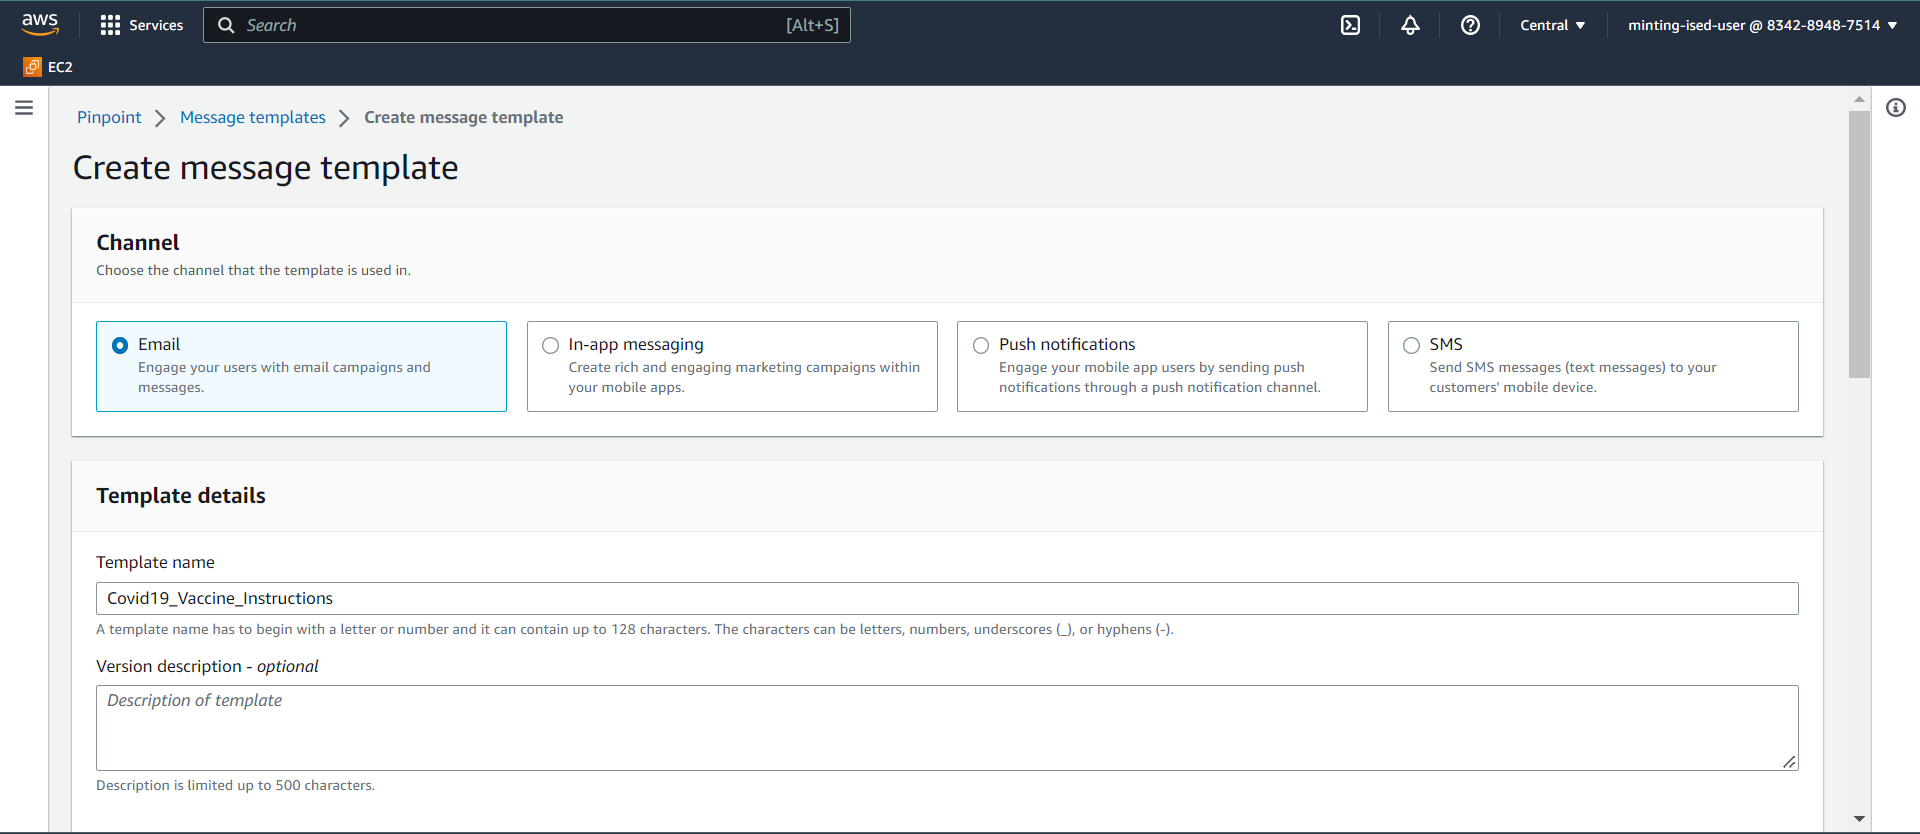
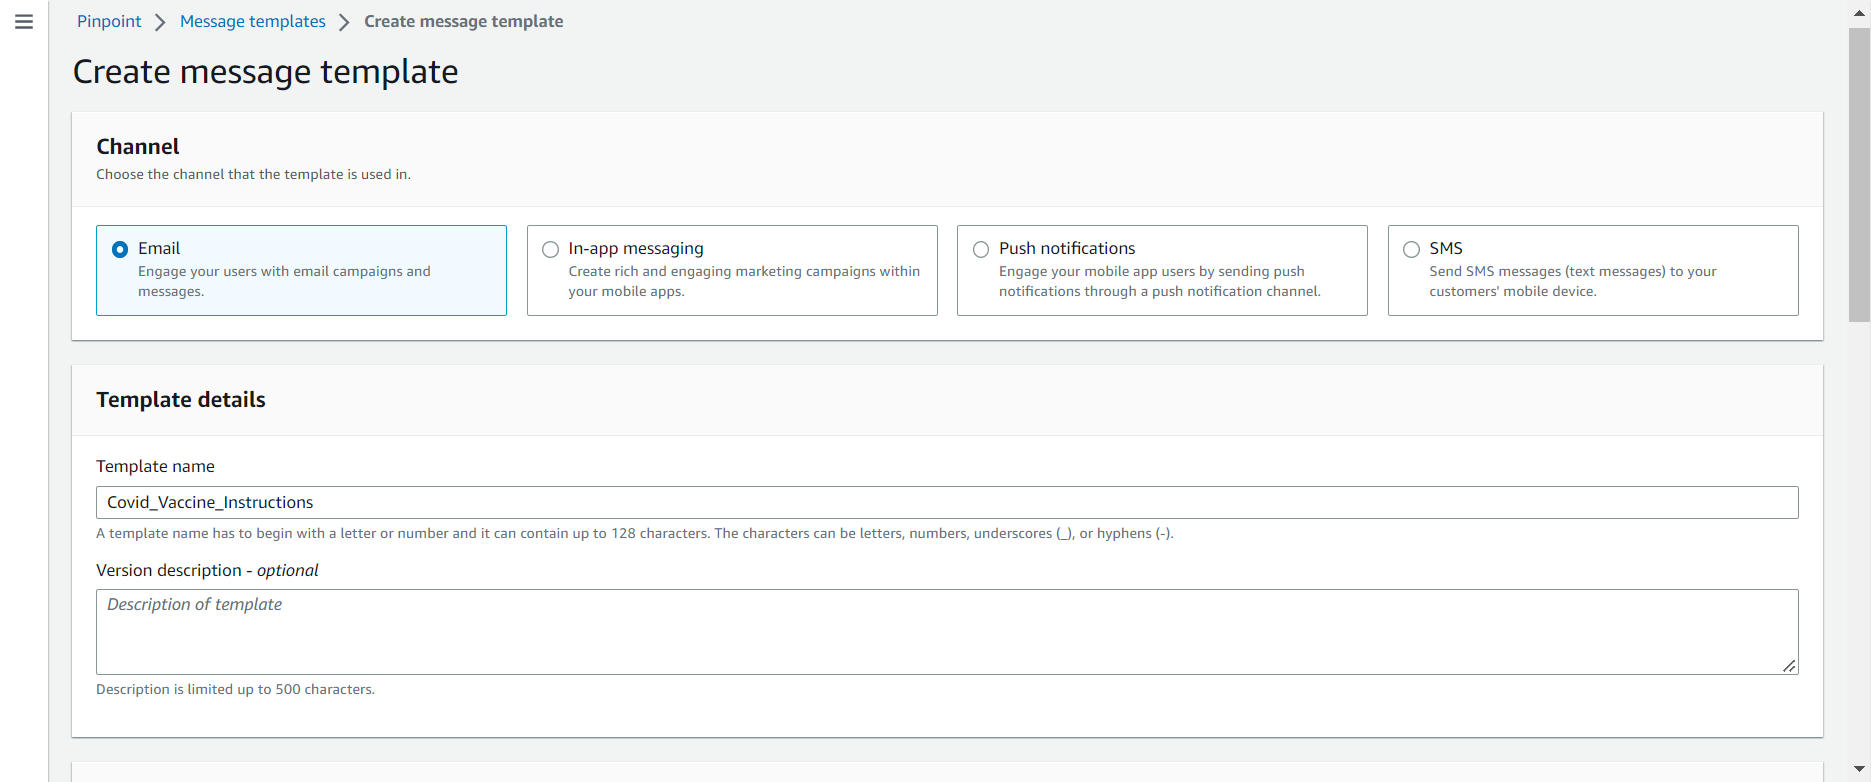
finish pinpoint guide

diff --git a/docs/PinpointGuide.md b/docs/PinpointGuide.md
@@ -1,12 +1,21 @@
-In this guide, you will learn how to send notifications to users who are subscribed to certain topics under certain category. In this example, we email an article "Covid's Impact on BC hospitals" to BC users that are subscribed to either topic COVID-19 or topic Hospitals under the category of Healthcare. 
+# Pinpoint Guide
 
-1. At the [AWS online console](https://console.aws.amazon.com/console/home), enter `Pinpoint` in the search bar![alt text](images/pinpoint_guide/search_pinpoint.PNG)
-2. Double-click PinpointApp.
-3. We are now at the Pinpoint dashboard. We begin by adding the email content to Pinpoint. On the left menu, go to Message templates. A message template in Pinpoint is mesage content that you can reuse when you send messages. [alt text](message_templates.PNG)
-4. Click Create template. [alt text](message_template_1.PNG)
-5. For Channel, choose Email. Fill in the rest of the details and edit your email body under "Email details". After you are done, click "Create".
-6. Next, we configure the details for sending the email. For this we use the Campaigns feature, which can be found at the left menu. Click "Campaigns" and then "Create a campaign". Creating a campaign in Pinpoint initiates a message-sending schedule that targets a specific user group. This sentence will make more sense after you complete the steps to create a campaign.
-7. Fill in the details as the following. For Channel, choose Email. Click Next.
-8. Select "Create a segment". A segment in Pinpoint is a user group with specific attributes values. Scroll down to "Criteria-optional". Click "Add criteria" and configure the filters as below. In the first filter we set the attribute "province" to BC, meaning we only want to include BC users. Click "Add another segment group", then "Add criteria" and configure the filters as below. In the first filter we set the attribute "HC-COVID19" to include EMAIL, meaning we want to target users that are subscribed to the COVID19 topic under HC(short for Healthcare, this is the acronym you entered when creating the category Healthcare in the web app), that is opted in for email communications. Likewise, we set the attribute "HC-Hospitals" to include EMAIL. Then, we connect these two filters using OR, meaning we want to target users that are subscribed to either the COVID19 or Hospital topic.
-9. After you've configured the filters, underneath there is a section titled "Segment estimate" where you can see how many users are selected after you specified the filters. Click Next
-10. 
+**Before Continuing with this User Guide, please make sure you have deployed the frontend and backend stacks.**
+
+- [Deployment Guides](./DeploymentGuide.md)
+
+In this guide, you will learn how to send notifications to users who are subscribed to certain topics under certain category. In this example, we email an article titled "Covid Vaccine Instructions" to all BC users that are subscribed to the topic COVID-19 under the category Healthcare. 
+
+1. At the [AWS online console](https://console.aws.amazon.com/console/home), enter `Pinpoint` in the search bar, and go to "Amazon Pinpoint".![alt text](images/pinpoint_guide/search_pinpoint.PNG)
+2. Click PinpointApp under "All Projects".
+3. We are now at the Pinpoint dashboard. We begin by adding the email content to Pinpoint. On the left menu, go to Message templates. A message template in Pinpoint is mesage content that you can reuse when you send messages. ![alt text](images/pinpoint_guide/message_templates.PNG)
+4. Click Create template. 
+5. For Channel, choose Email. Fill in the rest of the details and edit your email body under "Email details". After you are done, scroll down to the very bottom and click "Create". ![alt text](images/pinpoint_guide/message_template_1.PNG) ![alt text](images/pinpoint_guide/message_template_2.PNG)
+6. Next, we configure the details for sending the email. For this we use the Campaigns feature, which can be found at the left menu. Click "Campaigns" and then "Create a campaign". Creating a campaign in Pinpoint initiates a message-sending schedule that targets a specific user group. This sentence will make more sense after you complete the steps below to create a campaign.![alt text](images/pinpoint_guide/campaigns.PNG)
+7. Fill in the details as the following. For Channel, choose Email. Click Next. ![alt text](images/pinpoint_guide/campaign_1.PNG)
+8. In the "Choose a segment" step, select "Create a segment". A segment in Pinpoint is a user group with specific attributes values. Scroll down to "Criteria-optional". Click "Add criteria" and configure the filters as below. In the first filter we set the attribute "HC-COVID19" to contains EMAIL, meaning we want to target users that are subscribed to the COVID19 topic under HC (short for Healthcare, this is the acronym you entered when creating the category Healthcare in the web app), that is opted in for email communications. In the second filter we set the attribute "province" to BC, meaning we only want to include BC users. After you've configured the filters, underneath there is a section titled "Segment estimate" where you can see how many users are selected after you specified the filters. Click Next ![alt text](images/pinpoint_guide/make_segment_group.PNG)
+9. In the "Create your message" step, select "Choose an existing email template", then set the template you created in step 5. ![alt text](images/pinpoint_guide/create_message.PNG)
+10. Leave the rest as is, then click Next.
+11. In this page, you can set the schedule by which you want your email to be delivered. Choose according to your needs and click Next. ![alt text](images/pinpoint_guide/campaign_schedule.PNG)
+12. In this page, you can review the campaign you just created. If nothing is off, scroll to the bottom and click "Launch campaign". ![alt text](images/pinpoint_guide/review.PNG)
+13. You've now created a campaign and can expect your subscribers to start receiving emails!

diff --git a/docs/DeploymentGuide.md b/docs/DeploymentGuide.md
@@ -63,19 +63,6 @@ The **Deploy to Amplify Console** button will take you to your AWS console to de
    Refer to [AWS's Page on Single Page Apps](https://docs.aws.amazon.com/amplify/latest/userguide/redirects.html#redirects-for-single-page-web-apps-spa) for further information on why we did that
    ![alt text](images/deployment/deployment-04.PNG)
 
-## Register Admin Account
-
-Here, you'll learn how to register for an account on the web portal, then how to set any accounts to ISED Admin.
-
-1. At the login page for the ISED website, click create an account.
-2. Enter your profile information. When selecting notification preferences, only select EMAIL NOTIFICATIONS. Then, click NEXT.
-3. A verification code will be sent to the email that you just entered. Enter it here, and then click VERIFY.
-4. You have now registered an account in the app. Before you proceed with the web portal, you need to add yourself to Admins. Start by going to the [AWS online console](https://console.aws.amazon.com/console/home), enter `Cognito` in the search bar \![alt text](images/deployment/deployment-05.PNG)
-5. Select `Manage User Pools` and select the user pool corresponding to the project name
-6. Click the `Users and Groups` tab on the menu on the left of the screen, then select the user which you want to set to Admin \![alt text](images/deployment/admin-01.PNG)
-7. At the top of the page click `Add to group` and select `Admins` from the dropdown menu \![alt text](images/deployment/admin-02.PNG)
-8. Now come back to the web portal, refresh the page, and then you can proceed to sign in following the steps in the [Web App User Guide](docs/UserGuide.md).
-
 The frontend is almost finished being set up, but first we need to deploy our backend. 
 
 # Step 3: Backend Deployment
@@ -151,7 +138,7 @@ The following block of text is what will appear when running the command. It is 
       (You can have multiple different environments, each having different saved inputs, but for now just press enter since we do not need to worry about that for this deployment)
 ```
 
-Be sure to not close the window after this process has completed, as the Outputs section produced will be important for the next step.
+Be sure to not close the window after this process has completed so that you can monitor if any error occurred during the deployment.
 
 # Step 4: Wrap up Frontend Deployment
 
@@ -159,8 +146,8 @@ We need to add a few more things to our Amplify project before we are all done w
 
 ## Cognito
 1. At the [AWS online console](https://console.aws.amazon.com/console/home), enter `Cognito` in the search bar![alt text](images/deployment/deployment-05.PNG)
-2. Select `Manage User Pools`, then select the user pool corresponding to the project name
-3. On the left side menu, click on `MFA and verifications` and scroll down to `Which attributes do you want to verify?`. Select **Email or phone number**.![alt text](images/deployment/deployment-07.PNG)
+2. Select `Manage User Pools`, then select the user pool that begins with isedf0082716
+3. On the left side menu, click on `MFA and verifications` and scroll down to `Which attributes do you want to verify?`. Select **Email or phone number**. Then at the very bottom, click "Save changes". ![alt text](images/deployment/deployment-07.PNG)
 
 ## SES
 
@@ -183,9 +170,23 @@ Amazon SNS is what is used to send the verification texts when a user first adds
 
 Congratulations, your web app is now deployed! You can find the website URL on the main screen of Amplify under `Hosting environments`, and then clicking on the web-browser-esque image under `main`.
 
+
 <!-- # Step 6: Log into Admin Account
 
 To use the account created with CloudFormation, first navigate to the link of the app. This can be found on the Amplify page, under `Hosting environments`. Clicking on the image below `main` will take you to the website. Then, just log in to the account using the email you provided in the template. For the password, a temporary one will have been sent to your inbox. After logging in, you will be instructed to choose a brand new password. -->
+
+# Step 6: Register Admin Account
+
+Here, you'll learn how to register for an account on the web portal, then how to set any accounts to ISED Admin.
+
+1. At the login page for the ISED website, click create an account. ![alt text](images/deployment/setup_admin_welcome.PNG)
+2. Enter your profile information. When selecting notification preferences, only select EMAIL NOTIFICATIONS. Then, click NEXT. ![alt text](images/deployment/setup_admin_profile.PNG)
+3. A verification code will be sent to the email that you just entered. Enter it here, and then click VERIFY. ![alt text](images/deployment/setup_admin_verification.PNG)
+4. You have now registered an account in the app. Before you proceed with the web portal, you need to add yourself to Admins. Start by going to the [AWS online console](https://console.aws.amazon.com/console/home), enter `Cognito` in the search bar ![alt text](images/deployment/deployment-05.PNG)
+5. Select `Manage User Pools` and select the user pool that begins with isedf0082716.
+6. Click the `Users and Groups` tab on the menu on the left of the screen, then select the user which you want to set to Admin. ![alt text](images/deployment/admin-01.PNG)
+7. At the top of the page click `Add to group` and select `Admins` from the dropdown menu ![alt text](images/deployment/admin-02.PNG)
+8. Now come back to the web portal, refresh the page, and then you can proceed to sign in with the account you just registered![alt text](images/deployment/setup_admin_welcome.PNG)
 
 <!-- ## Step 7 (Optional): Set up other Admin Accounts
 

diff --git a/README.md b/README.md
@@ -7,6 +7,7 @@ description
 | [High Level Architecture](#high-level-architecture) | High level overview illustrating component interactions |
 | [Deployment](#deployment-guide)                     | How to deploy the project                               |
 | [User Guide](#user-guide)                           | The working solution                                    |
+| [Pinpoint Guide](#pinpoint-guide)                           | How to broadcast messages using Pinpoint                                    |
 | [Files/Directories](#files-and-directories)         | Important files/directories in the project              |
 | [Changelog](#changelog)                             | Any changes post publish                                |
 | [Credits](#credits)                                 | Meet the team behind the solution                       |
@@ -25,6 +26,9 @@ To deploy this solution, please follow the steps laid out in the [Deployment Gui
 # User Guide
 
 For instructions on how to navigate the web app interface, refer to the [Web App User Guide](docs/UserGuide.md).
+
+# Pinpoint Guide
+For instructions on how to navigate the pinpoint portal, refer to the [Pinpoint Guide](docs/PinpointGuide.md).
 
 # Files And Directories
 
@@ -98,7 +102,7 @@ For instructions on how to navigate the web app interface, refer to the [Web App
    7. **`/themes.js`**: Global styling for fonts. Note that most components have their own module-scoped styling.
 # Changelog
 
-To view the version history, please view the [Changelog](/CHANGELOG.md)
+N/A
 
 # Credits
 
